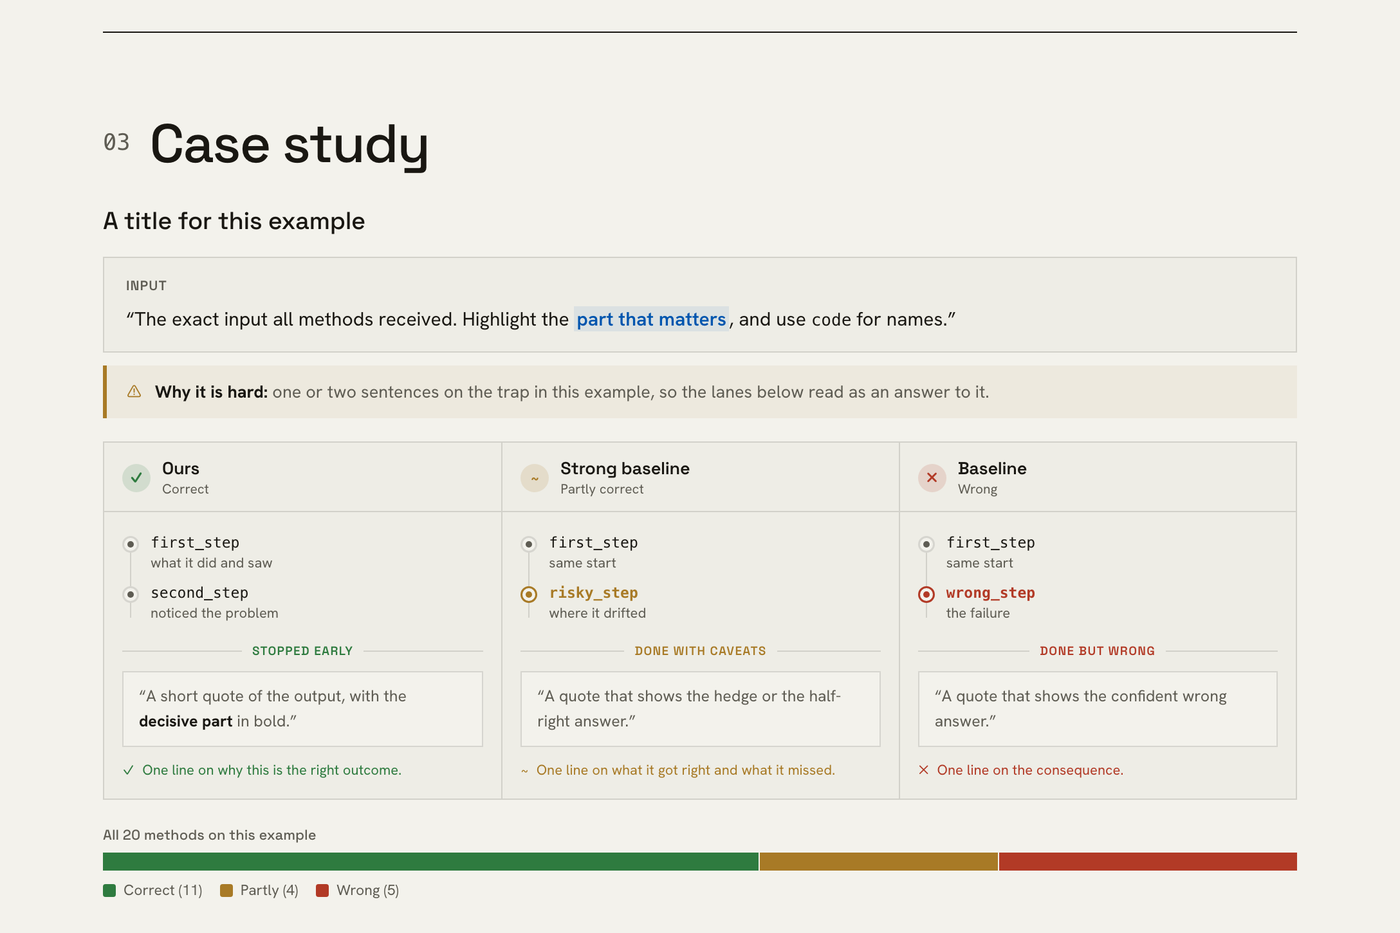
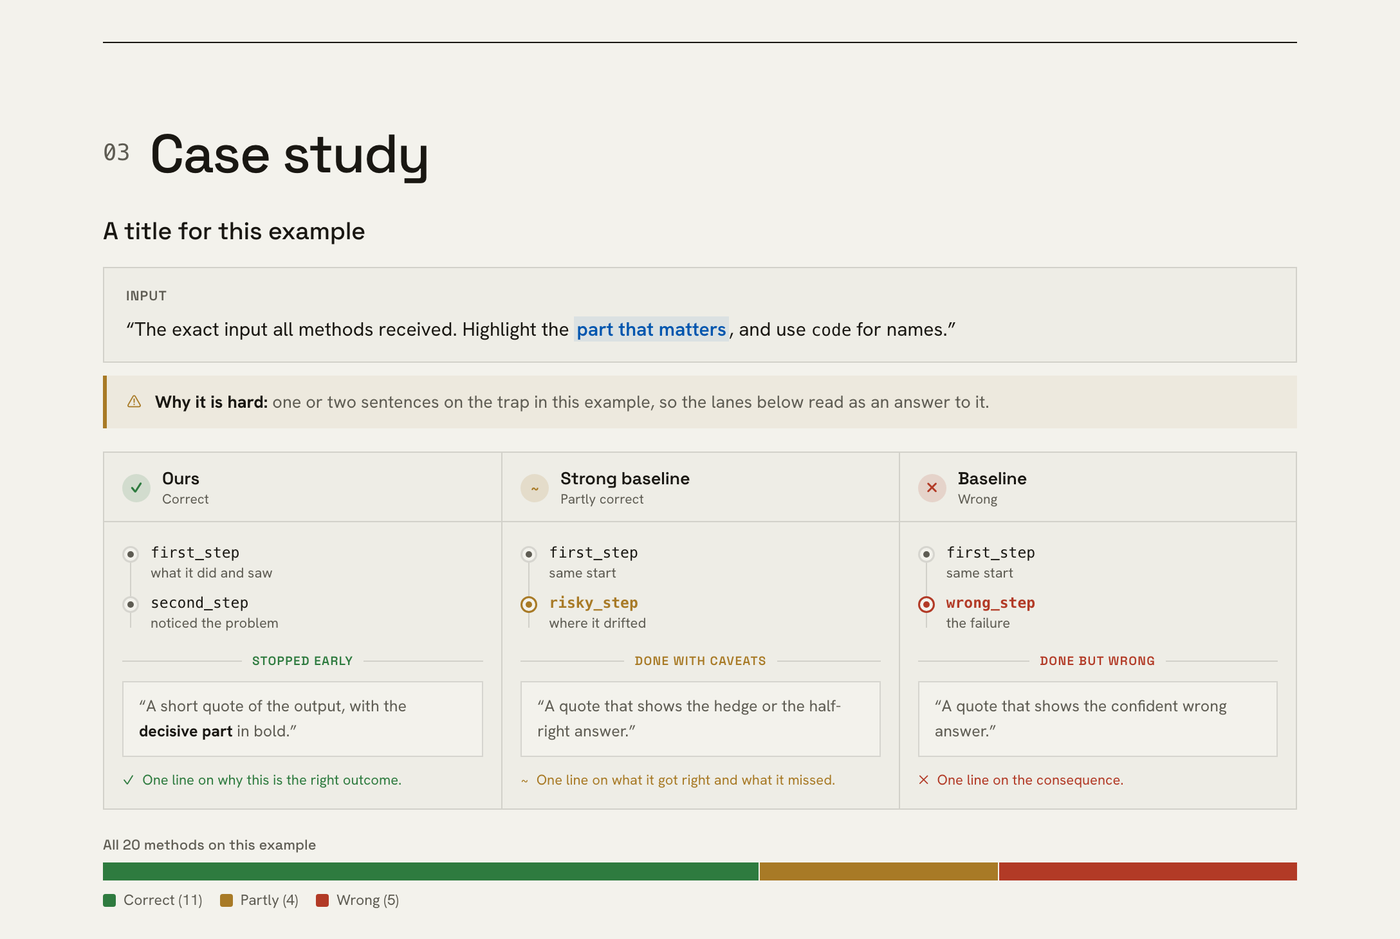
Add README demo GIF, mention NeurIPS Oral and drop extra rule under results

diff --git a/assets/css/masthead.css b/assets/css/masthead.css
@@ -114,6 +114,9 @@ html.js h1.title .hl{background-size:0% 3px;animation:uline .8s cubic-bezier(.3,
 /* ---- key results: three big numbers ------------------------------------ */
 .keys{display:grid;grid-template-columns:1.3fr 1fr 1fr;border-top:1px solid var(--rule)}
 .keys>div{padding:26px 24px;border-right:1px solid var(--hair)}
+/* right under a section heading the section rule is enough, so drop the second line */
+.sec>h2+.keys{border-top:0}
+.sec>h2+.keys>div{padding-top:8px}
 .keys>div:first-child{padding-left:0}
 .keys>div:last-child{padding-right:0;border-right:0}
 .big{font-family:var(--display);font-size:clamp(44px,5vw,62px);font-weight:500;letter-spacing:-0.04em;line-height:0.9}
@@ -165,7 +168,8 @@ footer .fr a:hover{color:var(--ink)}
 /* sort arrow sits in the cell padding, so header text lines up with the column values */
 .tbl th .ar{position:absolute;right:3px;bottom:12px;font-size:8px;line-height:1}
 .tbl th:first-child .ar{right:auto;left:calc(100% - 13px)}
-.tbl-note{font-size:13.5px;color:var(--muted);margin:12px 0 0;max-width:72ch}
+.tbl-note{font-size:13.5px;color:var(--muted);margin:12px 0 30px;max-width:72ch}
+.tbl-wrap:has(+.tbl-note){margin-bottom:0}
 
 /* ---- bar chart: <div class="chart"> with --v (value) per .bar ----------- */
 .chart{border:1px solid var(--rule);background:var(--paper);padding:20px 22px 18px;margin:0 0 30px}

diff --git a/README.md b/README.md
@@ -12,13 +12,15 @@ Plain HTML, CSS and JavaScript. No build step, no dependencies, and it runs on G
 [![Lighthouse 100](https://img.shields.io/badge/Lighthouse-100-0b7a55)](#why-masthead)
 [![Dark mode](https://img.shields.io/badge/dark%20mode-yes-15140f)](#theme-presets)
 
-**[Live demo](https://antiquality.github.io/masthead-project-page-template/)** &nbsp;&nbsp; **[Use this template](https://github.com/AntiQuality/masthead-project-page-template/generate)** &nbsp;&nbsp; **[Real example: AgentAbstain](https://agentabstain.github.io)**
+**[Live demo](https://antiquality.github.io/masthead-project-page-template/)** &nbsp;&nbsp; **[Use this template](https://github.com/AntiQuality/masthead-project-page-template/generate)** &nbsp;&nbsp; **[Real example: AgentAbstain, NeurIPS 2026 Oral](https://agentabstain.github.io)**
 
-<img src=".github/screenshots/hero.png" alt="Masthead in light and dark mode" width="100%">
+<img src=".github/screenshots/demo.gif" alt="Scrolling through the Masthead demo: stats count up, the table sorts, bars grow and the page switches to dark mode" width="100%">
 
 </div>
 
 ## Why Masthead
+
+![Masthead in light and dark mode](.github/screenshots/hero.png)
 
 - **Looks like a front page, not a slide.** Big newspaper-style type, hairline rules and a paper-and-ink palette that puts your title first.
 - **Light and dark mode built in.** It follows the reader's system setting, and a toggle in the top bar remembers their choice.
